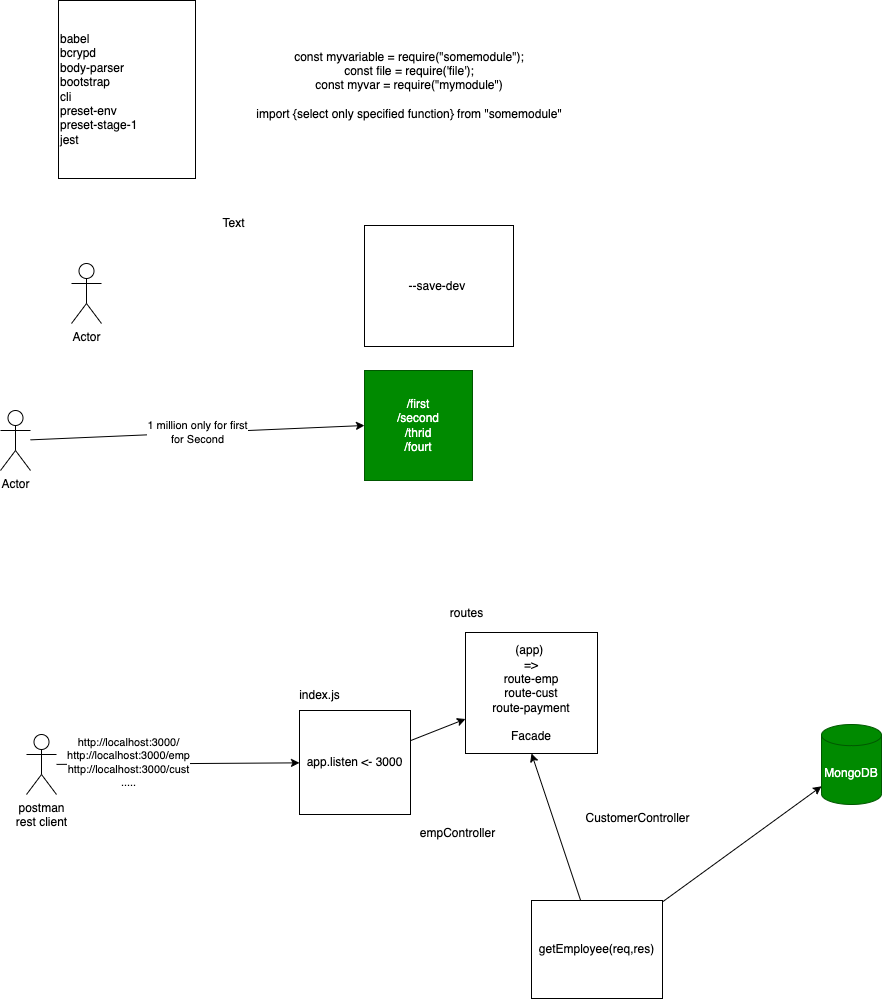
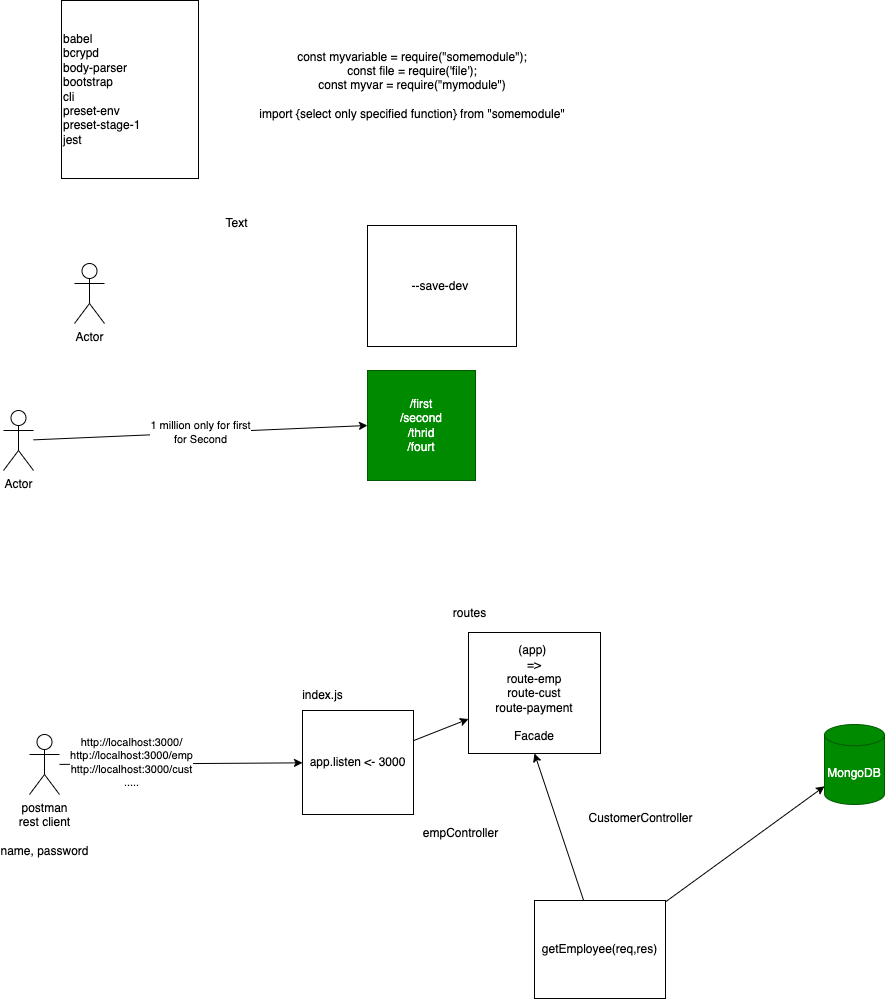
updated with bcrypt

diff --git a/web-works/http-mongodb-works/src/controllers/employee-controller.js b/web-works/http-mongodb-works/src/controllers/employee-controller.js
@@ -1,11 +1,33 @@
 
 import mongoose from 'mongoose';
 import { EmployeeSchema } from '../models/employee-model';
+import bcrypt from 'bcrypt';
 
 const Employee = mongoose.model('Employee', EmployeeSchema);
+const SALT_ROUNDS = 10;
 
-// add employee 
-export const addEmployee = (req, res) => {
+
+// utility works 
+
+// bcrypt works 
+async function hash(password) {
+    const salt = await bcrypt.genSalt(SALT_ROUNDS);
+    const hashedPassword = await bcrypt.hash(password, salt);
+    return hashedPassword;
+}
+
+
+// compare password with hashed password 
+
+async function compare(password, hashedPassword) {
+    const match = await bcrypt.compare(password, hashedPassword);
+    return match;
+}
+
+
+
+// add employee - version 1
+export const addEmployee_v1 = (req, res) => {
     let newEmployee = new Employee(req.body);
 
     newEmployee.save((err, employee) => {
@@ -15,6 +37,24 @@ export const addEmployee = (req, res) => {
         res.json(employee);
     })
 }
+
+// add employee - version 2 with encryption
+
+export const addEmployee = async (req, res) => {
+    let emp = req.body;
+    emp.password = await hash(emp.password);
+    let newEmployee = new Employee(emp);
+
+    try {
+        let retEmp = await newEmployee.save();
+        res.send(retEmp);
+    } catch (err) {
+        res.send(err);
+    }
+}
+
+
+
 
 // get all employees 
 export const getAllEmployees = (req, res) => {
@@ -65,6 +105,22 @@ export const deleteEmployeeById = (req, res) => {
         }
         res.json({ message: "remployee deleted successfully.", data });
     })
+}
+
+
+
+// authenticat user - (email, password)
+export const authenticateUser = async (req, rest) => {
+    try {
+        let retEmployee = await Employee.findOne({ email: req.body.email });
+        const validateEmployee = await compare(req.body.password, retEmployee.password);
+
+        if (validateEmployee) {
+            res.send({ message: "User Validated" });
+        }
+    } catch (err) {
+        res.send({ message: "Sorry not validate credentials :" + req.body.email });
+    }
 }
 
 export const home = (req, res) => {

diff --git a/web-works/http-mongodb-works/src/routes/employee-routes.js b/web-works/http-mongodb-works/src/routes/employee-routes.js
@@ -5,7 +5,8 @@ import {
     getAllEmployees,
     getEmployeesByFirstName,
     home,
-    updateEmployee
+    updateEmployee,
+    authenticateUser
 }
     from "../controllers/employee-controller";
 
@@ -16,7 +17,15 @@ const routes = (app) => {
 
     app.route("/employee")
         .get(getAllEmployees)
-        .post(addEmployee);
+        .post((req, res, next) => {
+            // this is middleware 
+            // you can do logging / security related code here 
+            console.log("you invoked POST Mehtod");
+            console.log("Request From : ", req.originalUrl);
+            console.log("Method req go : ", req.method);
+            next();
+        }, addEmployee);
+
 
     app.route("/employee/:employeeId")
         .get(getEmployeeById)
@@ -25,6 +34,9 @@ const routes = (app) => {
 
     app.route("/employee/name/:firstName")
         .get(getEmployeesByFirstName);
+
+    app.route("/auth")
+        .post(authenticateUser);
 }
 
 export default routes;
